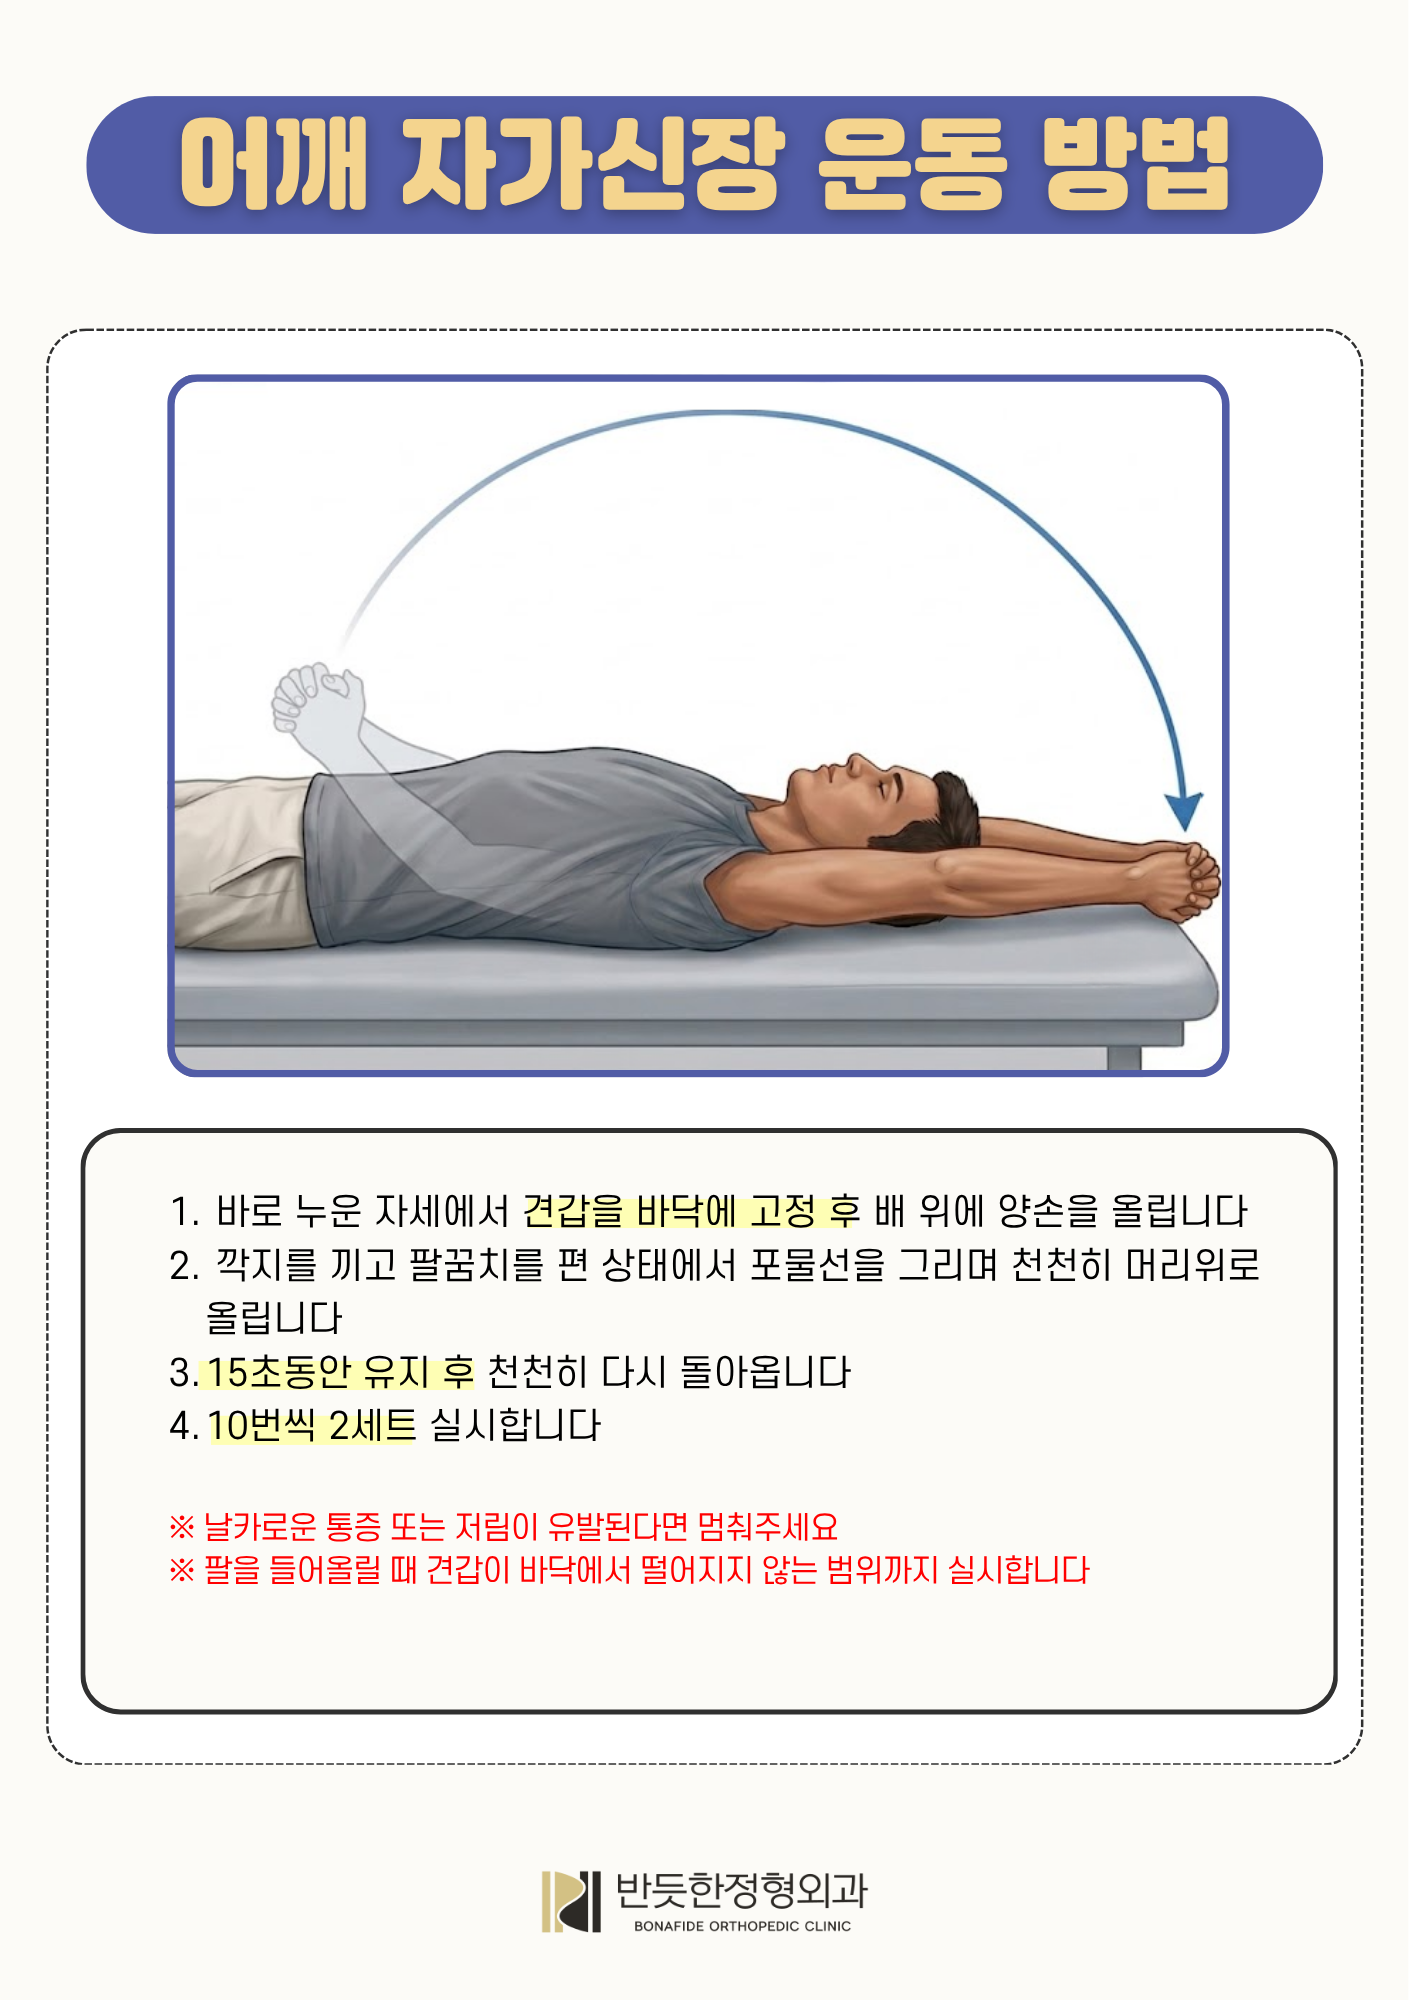
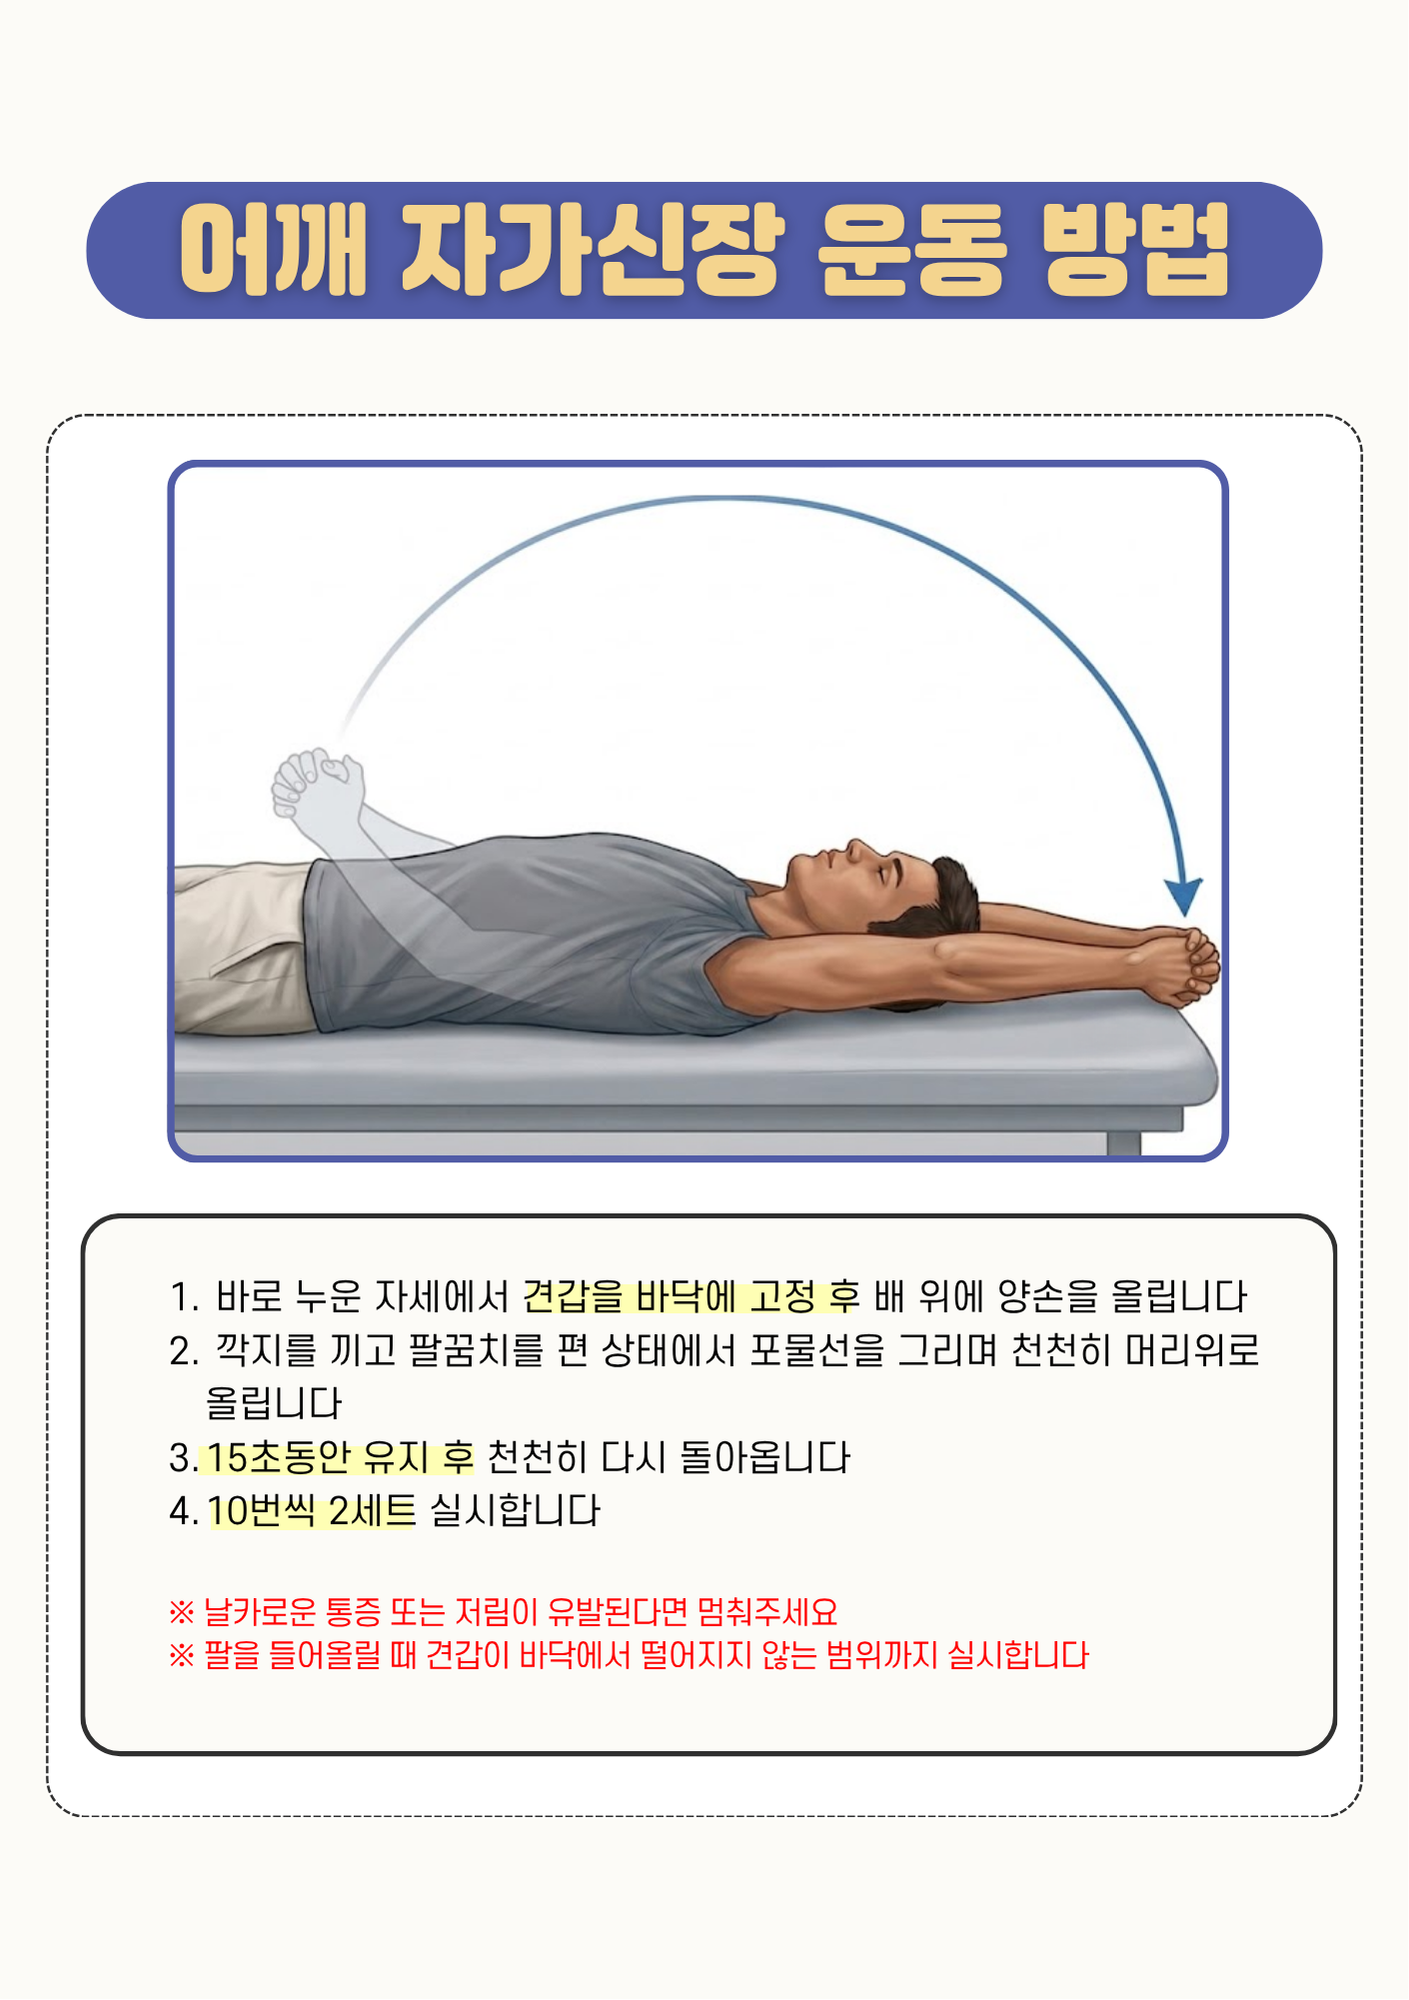
fix: 스트레칭 안내 이미지 9장 교체 (한글)
stretch/ 의 목·어깨·허리·무릎·발목 스트레칭과 폼롤러운동법을 새 이미지로 갈았다.
파일명은 그대로라 components/stretch-guide.html 은 손대지 않았다.
허리엉덩이근육운동.png 은 이번에 바뀌지 않았다.

영문판(en/stretch/)은 아직 옛 이미지다. 파일명이 한글과 같아야 짝이 맞으므로
교체할 때 en/stretch/ 에 같은 이름으로 덮어써야 한다.

BANNER_VER 20260828c -> 20260828d.

diff --git a/js/i18n.js b/js/i18n.js
@@ -5,7 +5,7 @@
    ───────────────────────────────────────────── */
 
 /* 배너 캐시 버전: 배너 이미지를 같은 파일명으로 교체할 때마다 이 값을 올린다. */
-const BANNER_VER = '20260828c';
+const BANNER_VER = '20260828d';
 
 const translationMap = {
   ko: {
